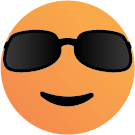
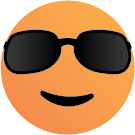
Cleaned up the project structure by using masks instead of clips

diff --git a/screens/PostViewScreen.js b/screens/PostViewScreen.js
@@ -3,6 +3,7 @@ import firestore from '@react-native-firebase/firestore';
 import { windowWidth } from "../utils/Dimentions";
 import Ionicons from 'react-native-vector-icons/Ionicons';
 import storage from '@react-native-firebase/storage';
+import MaskedView from '@react-native-community/masked-view';
 
 import { Text,
     View,
@@ -11,9 +12,10 @@ import { Text,
     TouchableOpacity,
     TouchableWithoutFeedback,
     FlatList,
-    Alert
+    Alert,
+    ScrollView
     } from "react-native";
-import { PostTime, UserImg, UserInfo, UserInfoText, UserName } from "../styles/FeedStyles";
+import { PostTime, ProfileMask, UserImg, UserInfo, UserInfoText, UserName } from "../styles/FeedStyles";
 
 import { defaultProfilePicture } from '../utils/Defaults';
 import moment from 'moment';
@@ -182,12 +184,21 @@ const PostViewScreen = ({route, navigation}) => {
                 <View style={styles.imageContainer}>
                     <ImageBackground
                         source={post ? {uri: post.postImg} : require("../assets/default-img.jpg")}
-                        style={styles.image}
+                        style={[styles.image,
+                          {width:windowWidth,
+                            height: (route.params.ImgDimensions.height/route.params.ImgDimensions.width)*windowWidth}]}
                     >
                         <View style={styles.postDetailsContainer}>
                             <UserInfo>
                                 <TouchableOpacity onPress={() => navigation.navigate('ProfileScreen', {userId:post.userId})}>
-                                    <UserImg source={{uri : userData ? userData.userImg || defaultProfilePicture : defaultProfilePicture}} />
+                                    <MaskedView
+                                      style={{width:55, height:55, alignItems:'center', justifyContent:'center'}}
+                                      maskElement={
+                                        <ProfileMask source={require('../assets/masks/profileMask.png')}/>
+                                      }
+                                      >
+                                      <UserImg source={{uri : userData ? userData.userImg || defaultProfilePicture : defaultProfilePicture}} />
+                                    </MaskedView>
                                 </TouchableOpacity>
                                 <UserInfoText>
                                     <TouchableOpacity onPress={() => navigation.navigate('ProfileScreen', {userId:post.userId})}>
@@ -253,10 +264,7 @@ const styles = StyleSheet.create({
     },
     image:{
         position:'relative',
-        width:windowWidth,
-        minHeight:windowWidth,
-        maxHeight:windowWidth*1.1,
-        resizeMode:'contain'
+        resizeMode:'cover'
     },
     viewReactionsContainer:{
         flexDirection:'row',

diff --git a/screens/ProfileScreen.js b/screens/ProfileScreen.js
@@ -8,6 +8,8 @@ import {
   SafeAreaView,
   Image,
 } from 'react-native';
+import MaskedView from '@react-native-community/masked-view';
+
 import {AuthContext} from '../navigation/AuthProvider';
 import { useTheme, Text } from 'react-native-paper';
 import { defaultProfilePicture } from '../utils/Defaults';
@@ -102,12 +104,20 @@ const ProfileScreen = ({navigation, route}) => {
         style={[styles.container, { backgroundColor: currentTheme.dark ? '#555555' : '#fff' }]}
         contentContainerStyle={{justifyContent: 'center', alignItems: 'center'}}
         showsVerticalScrollIndicator={false}>
-            <ImageBackground
-              style={styles.userImg}
-              source={{uri: userData ? userData.userImg || defaultProfilePicture : defaultProfilePicture}}
-            >
-              <Image source={require('../assets/profileScreenquadrant.png')} style={[styles.profileQuadrant, {tintColor: currentTheme.dark ? '#555555' : '#fff'}]}/>
-            </ImageBackground>
+            <MaskedView
+              style={{height:150, width:150, alignItems:'center', justifyContent:'center'}}
+              maskElement={
+                <Image
+                  source={require('../assets/masks/profileScreenMask.png')}
+                  style={{height:150, width:150}}
+                  />
+              }
+              >
+              <Image
+                style={{height:150, width:150}}
+                source={{uri: userData ? userData.userImg || defaultProfilePicture : defaultProfilePicture}}
+                />
+            </MaskedView>
         <Text style={styles.userName}>{userData ? userData.fname || 'Test' : 'Test'} {userData ? userData.lname || 'User' : 'User'}</Text>
         {/* <Text>{route.params ? route.params.userId : user.uid}</Text> */}
         <Text style={styles.aboutUser}>
@@ -169,16 +179,9 @@ const styles = StyleSheet.create({
     flex: 1,
     paddingTop:8
   },
-  userImg: {
+  profileMask:{
     height: 150,
-    width: 150,
-    alignItems: 'center',
-    justifyContent: 'center',
-
-  },
-  profileQuadrant:{
-    height: 155,
-    width:155
+    width:150
   },
   userName: {
     fontSize: 18,

diff --git a/components/PostCard.js b/components/PostCard.js
@@ -16,13 +16,15 @@ import { Container,
   Divider,
   InteractionWrapper,
   UserImageContainer,
-  ProfileCropper
+  ProfileCropper,
+  ProfileMask
 } from '../styles/FeedStyles';
 import { defaultProfilePicture } from '../utils/Defaults';
 
 import moment from 'moment';
 import { AuthContext } from '../navigation/AuthProvider';
 import { useTheme } from 'react-native-paper';
+import MaskedView from '@react-native-community/masked-view';
 
 const iconSize = 36.0;
 const mvDuration = 500;
@@ -321,9 +323,14 @@ const PostCard = ({item, onDelete, onProfilePress, onCommentPress, onImagePress,
     <Card style={[{width:windowWidth, ...props}, currentTheme.dark ? {backgroundColor:'#333333'} : {backgroundColor:'#f6f6f6'}]}>
         <UserInfo >
           <TouchableOpacity onPress={onProfilePress}>
-            <UserImg source={{uri : userData ? userData.userImg || defaultProfilePicture : defaultProfilePicture}}>
-              <ProfileCropper source={require('../assets/profilequadrant.png')} style={{tintColor: currentTheme.dark ? '#333333':'#f6f6f6'}}/>
-            </UserImg>
+            <MaskedView
+              style={{width:55, height:55, alignItems:'center', justifyContent:'center'}}
+              maskElement={
+                <ProfileMask source={require('../assets/masks/profileMask.png')}/>
+              }
+              >
+              <UserImg source={{uri : userData ? userData.userImg || defaultProfilePicture : defaultProfilePicture}} />
+            </MaskedView>
           </TouchableOpacity>
           <UserInfoText>
             <TouchableOpacity onPress={onProfilePress}>

diff --git a/screens/HomeScreen.js b/screens/HomeScreen.js
@@ -220,7 +220,7 @@ const HomeScreen = ({navigation}) => {
           onDelete={handleDelete}
           onProfilePress={() => navigation.navigate('ProfileScreen', {userId:item.userId})}
           onCommentPress={() => navigation.navigate('CommentsScreen', {postId:item.id, uid:item.userId})}
-          onImagePress={() => navigation.navigate('PostViewScreen', {postId:item.id, uid:item.userId})}
+          onImagePress={() => navigation.navigate('PostViewScreen', {postId:item.id, uid:item.userId, ImgDimensions:item.ImgDimensions})}
             />}
           />
     </Container>

diff --git a/styles/FeedStyles.js b/styles/FeedStyles.js
@@ -27,7 +27,13 @@ export const UserImg = styled.ImageBackground`
     height: 55px;
     align-items: center;
     justify-content: center;
+    background-color: transparent;
 `;
+
+export const ProfileMask = styled.Image`
+    width:55px;
+    height:55px;
+`
 
 export const ProfileCropper = styled.Image`
     width: 58px;
